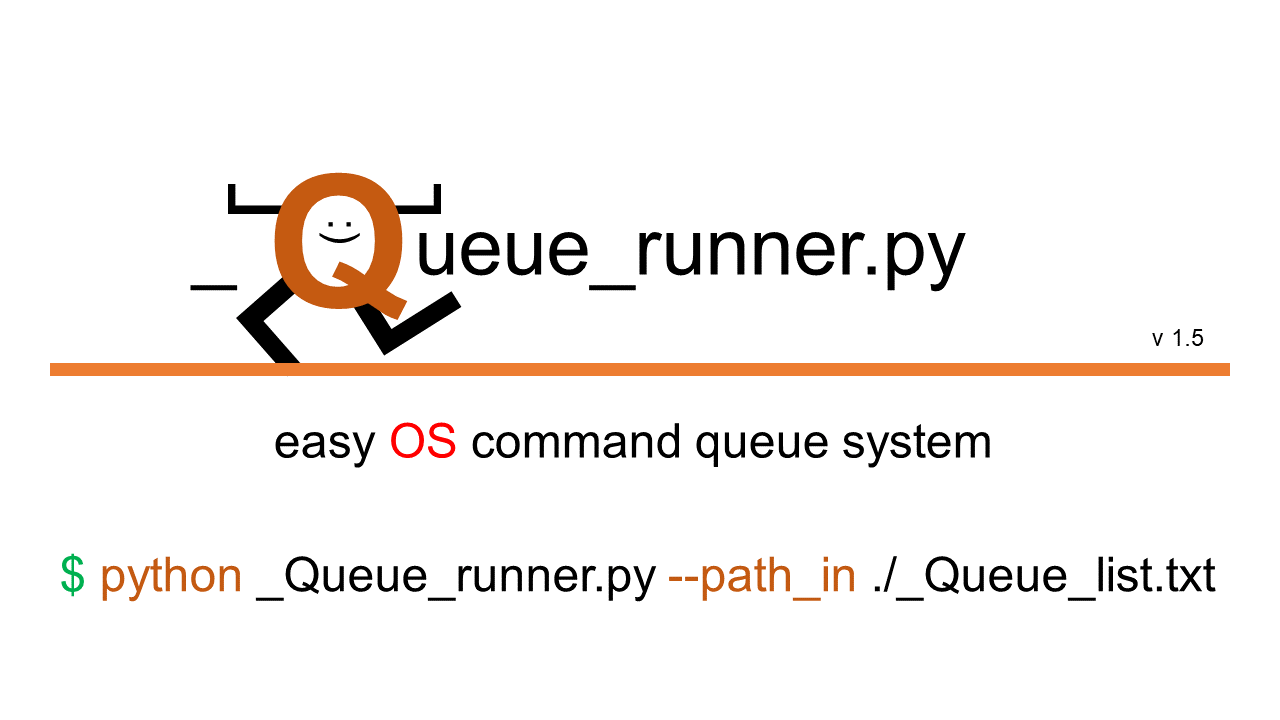
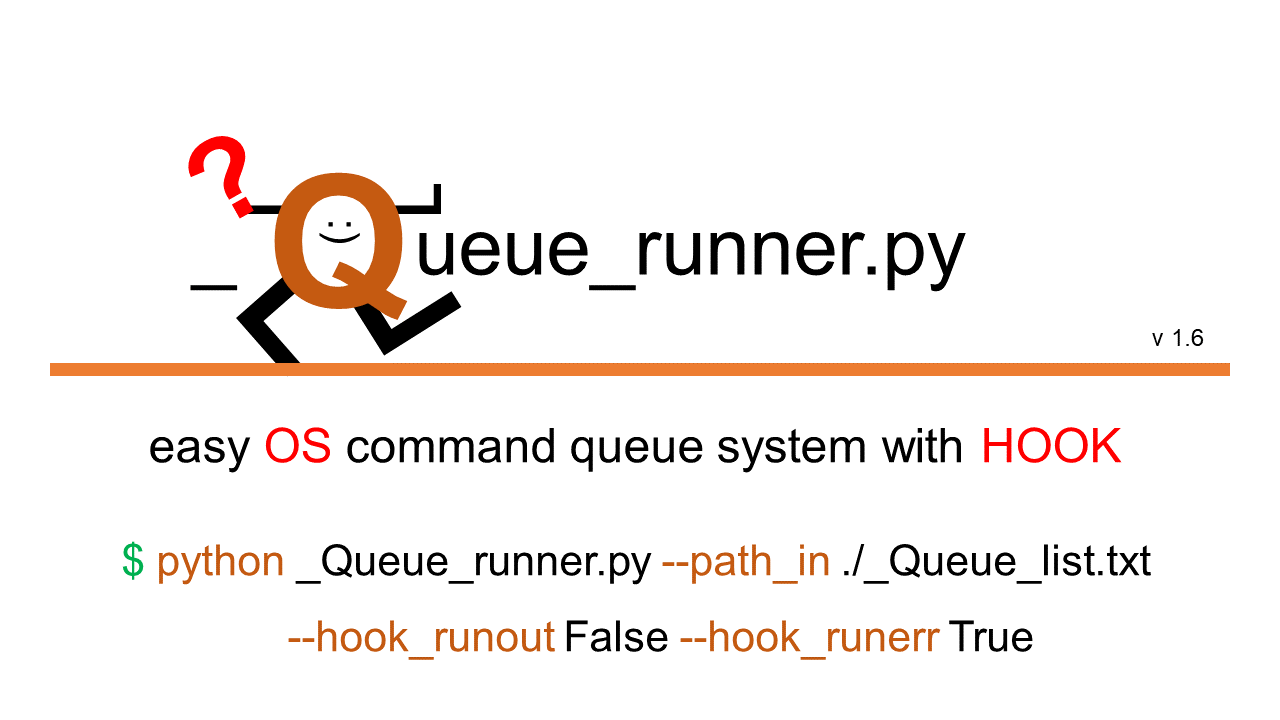
v 1.6
argparse.hook_runout 추가 (default: False)
	txt 파일로 stdout을 hook (bool)
argparse.hook_runerr 추가 (default: True)
	txt 파일로 stderr을 hook (bool)

diff --git a/_Queue_runner.py b/_Queue_runner.py
@@ -1,6 +1,8 @@
 import os
+import sys
 import time
 import argparse
+import subprocess
 
 def logger(path_file, in_str, write_time=True):
     with open(path_file, "a", encoding='UTF8') as log_txt:
@@ -27,35 +29,55 @@ if __name__ == "__main__":
     parser_options = argparse.ArgumentParser(description='_options')
     # set default
     path_q_list                 = "./_Queue_list.txt"                                                   # Queue list. 실행할 command 한 줄에 하나씩 적어두기
-    log_q_runner                = "./_Queue_log_" + str(time.strftime('%Y_%m_%d_%H_%M_%S')) + ".txt"    # Queue_runner 실행기록. 파일 없으면 생성후 기록함
+    path_q_out                  = "./_Queue_log_" + str(time.strftime('%Y_%m_%d_%H_%M_%S'))             # Queue_runner 실행기록 저장폴더
+    
     command_restriction         = True                                                                  # command head 제한 여부
     list_allowd_command_head    = ["python", "srun", "#"]                                               # 사용 가능한 command 첫 단어 / #은 comment로 처리 -> 실행 안됨
     list_comment_head           = ["#"]                                                                 # comment 로 인식할 command head list
     
+    
+    # ignore_fail -> hook_result -> hook_runout, hook_runerr
+    hook_runout                 = False                                                                 # command 실행 결과 output hook 여부
+    hook_runerr                 = True                                                                  # command 실행 결과 error  hook 여부
+    hook_count                  = 0
+    
     list_finished = []      # 시도한 command
     list_failed   = []      # 실패한 command 
+    dict_hooked   = {}      # hook 된 command
     
     count_scan_max = 100                 # queue list txt 파일 읽는 횟수
     count_scan     = 0
     
     parser_options.add_argument("--path_in",             type = str,      default = path_q_list,         help = "Path + file name for Queue list text file (str)")
-    parser_options.add_argument("--path_out",            type = str,      default = log_q_runner,        help = "Path + file name for Queue log text file (str)")
+    parser_options.add_argument("--path_out",            type = str,      default = path_q_out,          help = "Path + file name for Queue log text file (str)")
     parser_options.add_argument("--command_restriction", type = str2bool, default = command_restriction, help = "Command head restriction application (bool)")
     parser_options.add_argument("--scan_max",            type = int,      default = count_scan_max,      help = "Queue list file scan repeat (int)")
     parser_options.add_argument("--wildcard",            type = str,      default = None,                help = "Additional allowed command head (str)")
+    parser_options.add_argument("--hook_runout",         type = str2bool, default = hook_runout,         help = "Hook command output (bool)")
+    parser_options.add_argument("--hook_runerr",         type = str2bool, default = hook_runerr,         help = "Hook command error (bool)")
     
-    # argparse -> parser
+    # argparse -> parser 
     args_options        = parser_options.parse_args()
     path_q_list         = args_options.path_in
-    log_q_runner        = args_options.path_out
+    path_q_out          = args_options.path_out
+    
+    if not os.path.exists(path_q_out):
+        os.makedirs(path_q_out)
+    
+    log_q_runner = path_q_out + "/log_Queue_runner.txt"  # Queue_runner 실행로그. 파일 없으면 생성후 기록함.
+    
     command_restriction = args_options.command_restriction
     count_scan_max      = args_options.scan_max
     if args_options.wildcard is not None:
         list_allowd_command_head.append(args_options.wildcard)
-    
+    hook_runout         = args_options.hook_runout
+    hook_runerr         = args_options.hook_runerr
     
     _str = "===============[ Start Queue_runner ]==============="
     logger(log_q_runner, _str)
+    
+    _str = "Queue_runner log to: " + path_q_out
+    logger(log_q_runner, _str, write_time=False)
     
     _str = "Queue list from: " + path_q_list
     logger(log_q_runner, _str, write_time=False)
@@ -78,6 +100,9 @@ if __name__ == "__main__":
         _str = "Applied wildcard: " + args_options.wildcard
     logger(log_q_runner, _str, write_time=False)
     
+    _str = "Hook run output: " + str(hook_runout) + ", error: " + str(hook_runerr)
+    logger(log_q_runner, _str, write_time=False)
+    
     for count_scan in range(count_scan_max):
         count_scan = count_scan + 1  # (0 ~ n-1) -> (1 ~ n)
         _str = "\n\n\n<>===[ Reading: ( " + path_q_list + " ) " + str(count_scan) + " / " + str(count_scan_max) + " ]===<>"
@@ -92,9 +117,19 @@ if __name__ == "__main__":
                     q_command = q_list_line.strip("\n")
                     if q_command.split(" ")[0] in list_allowd_command_head or not command_restriction:
                         if q_command in list_failed:
-                            _str = "( Failed  )\t" + q_command
+                            try:
+                                _hook_num = dict_hooked[q_command]
+                                _id = "Fail " + str(_hook_num) + "      "
+                                _str = "( " + _id[:7] + " )\t" + q_command
+                            except:
+                                _str = "( Failed  )\t" + q_command
                         elif q_command in list_finished:
-                            _str = "( Done    )\t" + q_command
+                            try:
+                                _hook_num = dict_hooked[q_command]
+                                _id = "Done " + str(_hook_num) + "      "
+                                _str = "( " + _id[:7] + " )\t" + q_command
+                            except:
+                                _str = "( Done    )\t" + q_command
                         elif q_command.split(" ")[0] in list_comment_head:
                             _str = "( Comment )\t" + q_command
                         else:
@@ -125,11 +160,46 @@ if __name__ == "__main__":
                         logger(log_q_runner, _str)
                         list_finished.append(q_command)
                         
-                        try:
+                        _result = None                  # Case: KeyboardInterrupt
+                        
+                        if hook_runout or hook_runerr:
+                            hook_count += 1
+                            dict_hooked[q_command] = hook_count
+                            path_log_hook = path_q_out + "/log_hook_" + str(hook_count) + ".txt"
+                            
+                            with open(path_log_hook, "w", encoding='UTF8') as log_hook:
+                                _str = "Run command was...\n\t" + q_command + "\n\n"
+                                log_hook.write(_str)
+                            
+                            with open(path_log_hook, "a", encoding='UTF8') as log_hook:
+                                # command 실행 결과 hook 시행
+                                try:
+                                    # check=True를 통해 q_command 실행 실패시 오류 발생시킴
+                                    # https://stackoverflow.com/questions/803265/getting-realtime-output-using-subprocess
+                                    if hook_runout and hook_runerr:
+                                        _run_result = subprocess.run([q_command]
+                                                                    ,stdout=log_hook, stderr=log_hook
+                                                                    ,shell=True, check=True
+                                                                    ,encoding='utf-8',errors='utf-8', text=True
+                                                                    )
+                                    elif hook_runout:
+                                        _run_result = subprocess.run([q_command]
+                                                                    ,stdout=log_hook, stderr=sys.stderr
+                                                                    ,shell=True, check=True
+                                                                    ,encoding='utf-8',errors='utf-8', text=True
+                                                                    )
+                                    elif hook_runerr:
+                                        _run_result = subprocess.run([q_command]
+                                                                    ,stdout=sys.stdout, stderr=log_hook
+                                                                    ,shell=True, check=True
+                                                                    ,encoding='utf-8',errors='utf-8', text=True
+                                                                    )
+                                    _result =_run_result.returncode
+                                except:
+                                    _result = -9
+                        else:
+                            # command 실행 결과 hook 시행 안함 (v 1.5.x 방법)
                             _result = os.system(q_command)
-                        except:
-                            # Case: KeyboardInterrupt
-                            _result = None
                         
                         if _result is None:
                             # Case: KeyboardInterrupt
@@ -138,6 +208,10 @@ if __name__ == "__main__":
                         elif _result == 0:
                             # Case: Success
                             _str = "===[ Success: ( " + q_command + " ) ]==="
+                        elif _result == -9:
+                            # case: FAIL with subprocess.run
+                            _str = "===[ FAILURE: ( " + q_command + " ) with subprocess.run ]==="
+                            list_failed.append(q_command)
                         else:
                             # Case: sys.exit() or something
                             list_failed.append(q_command)
